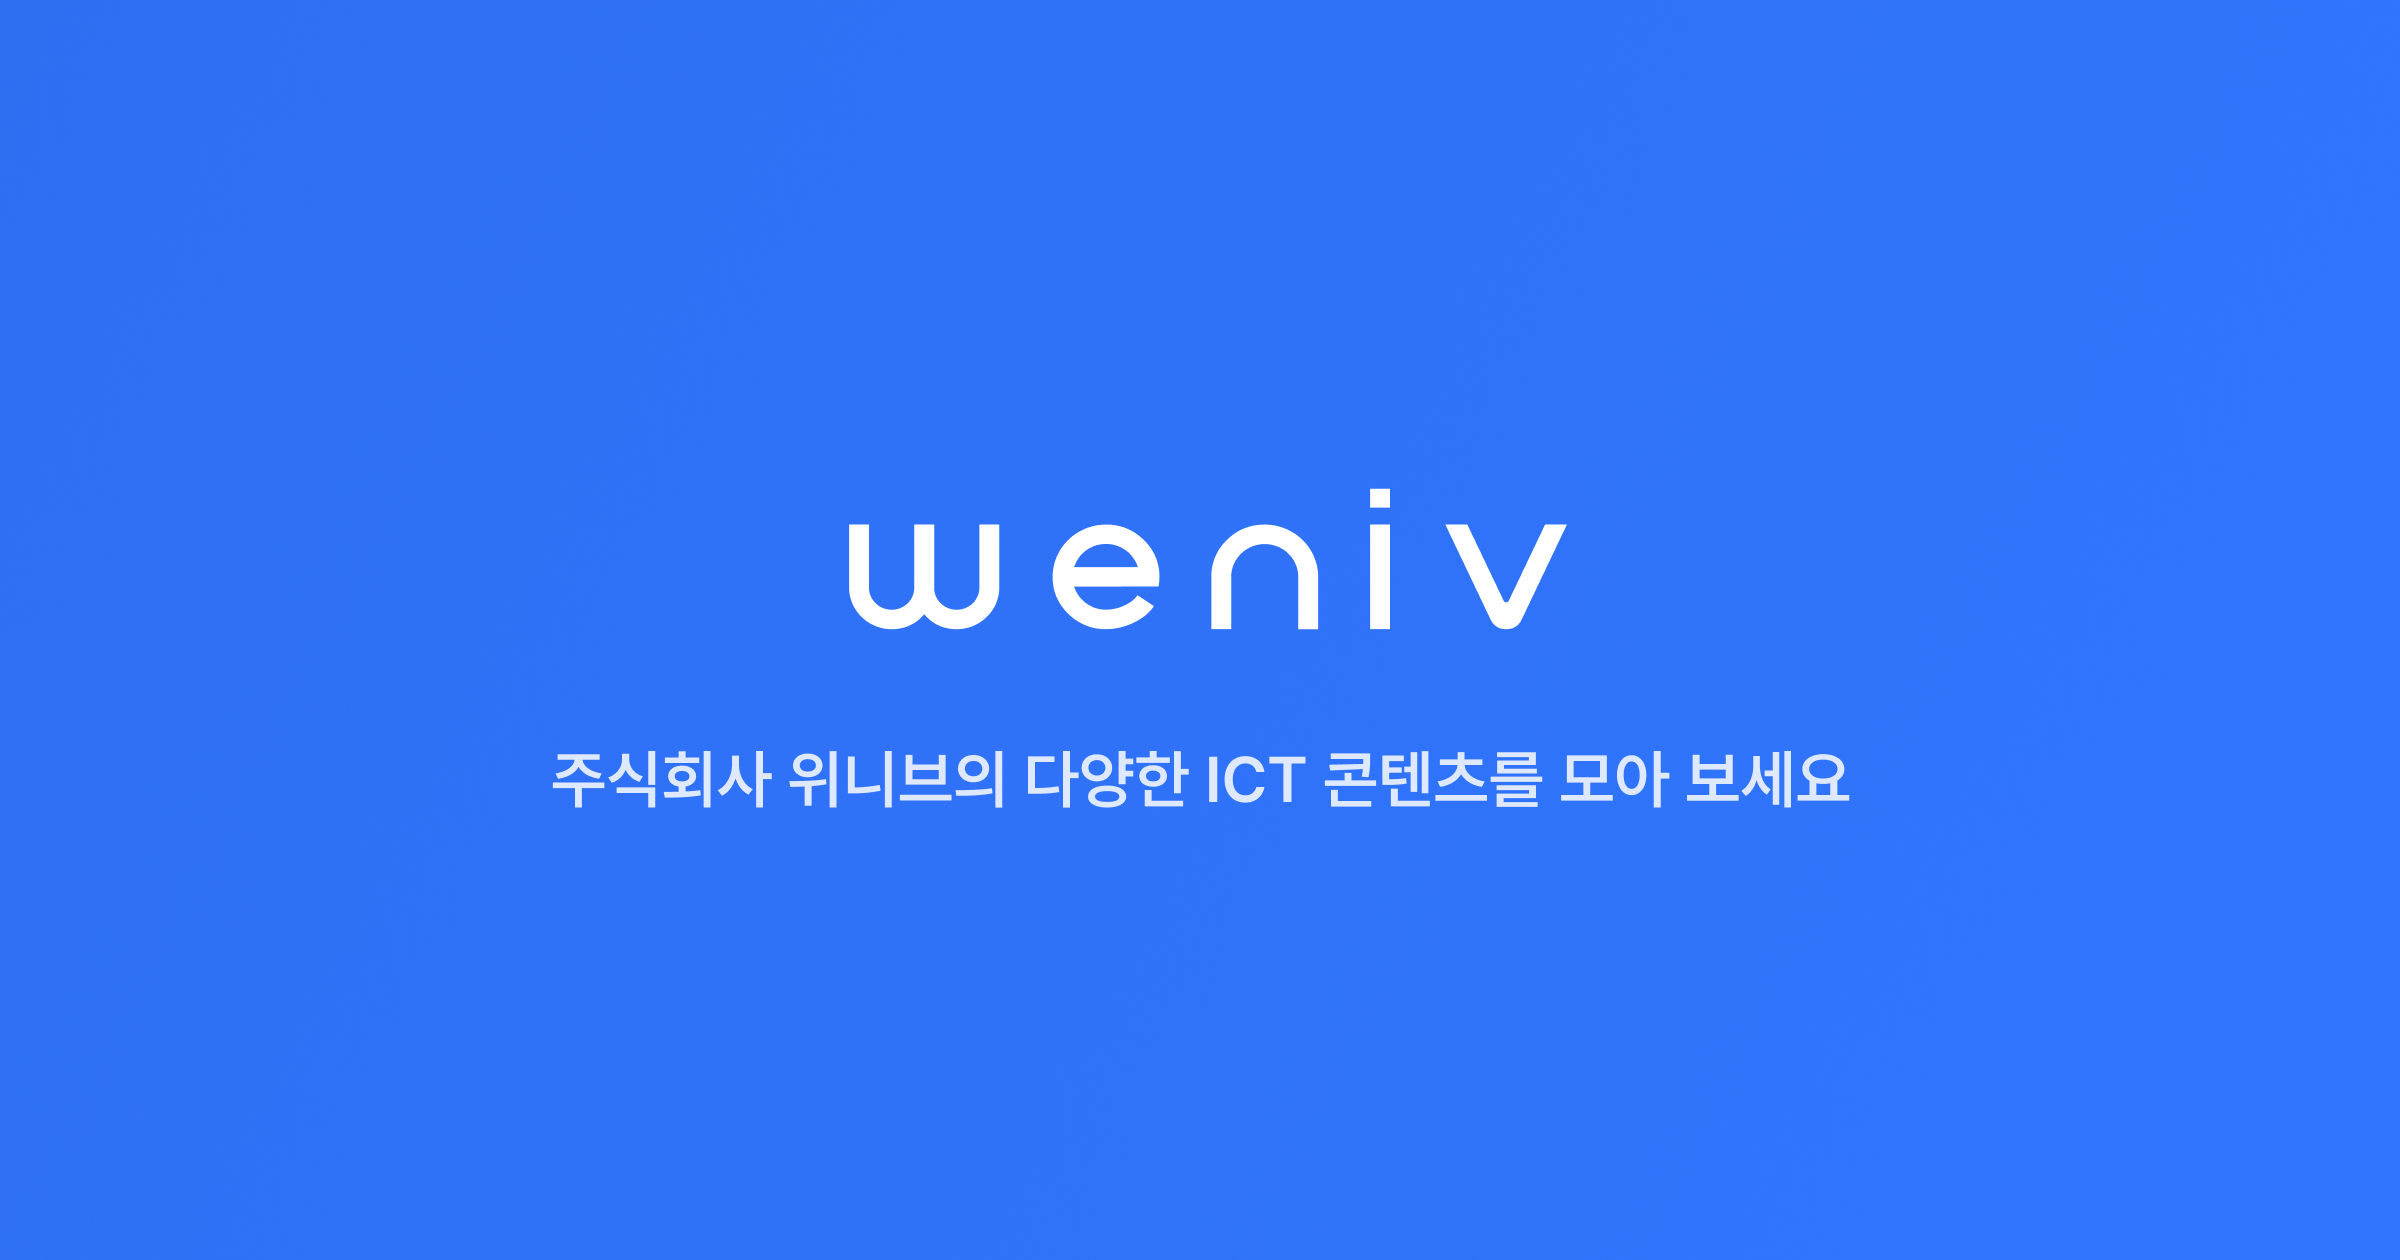
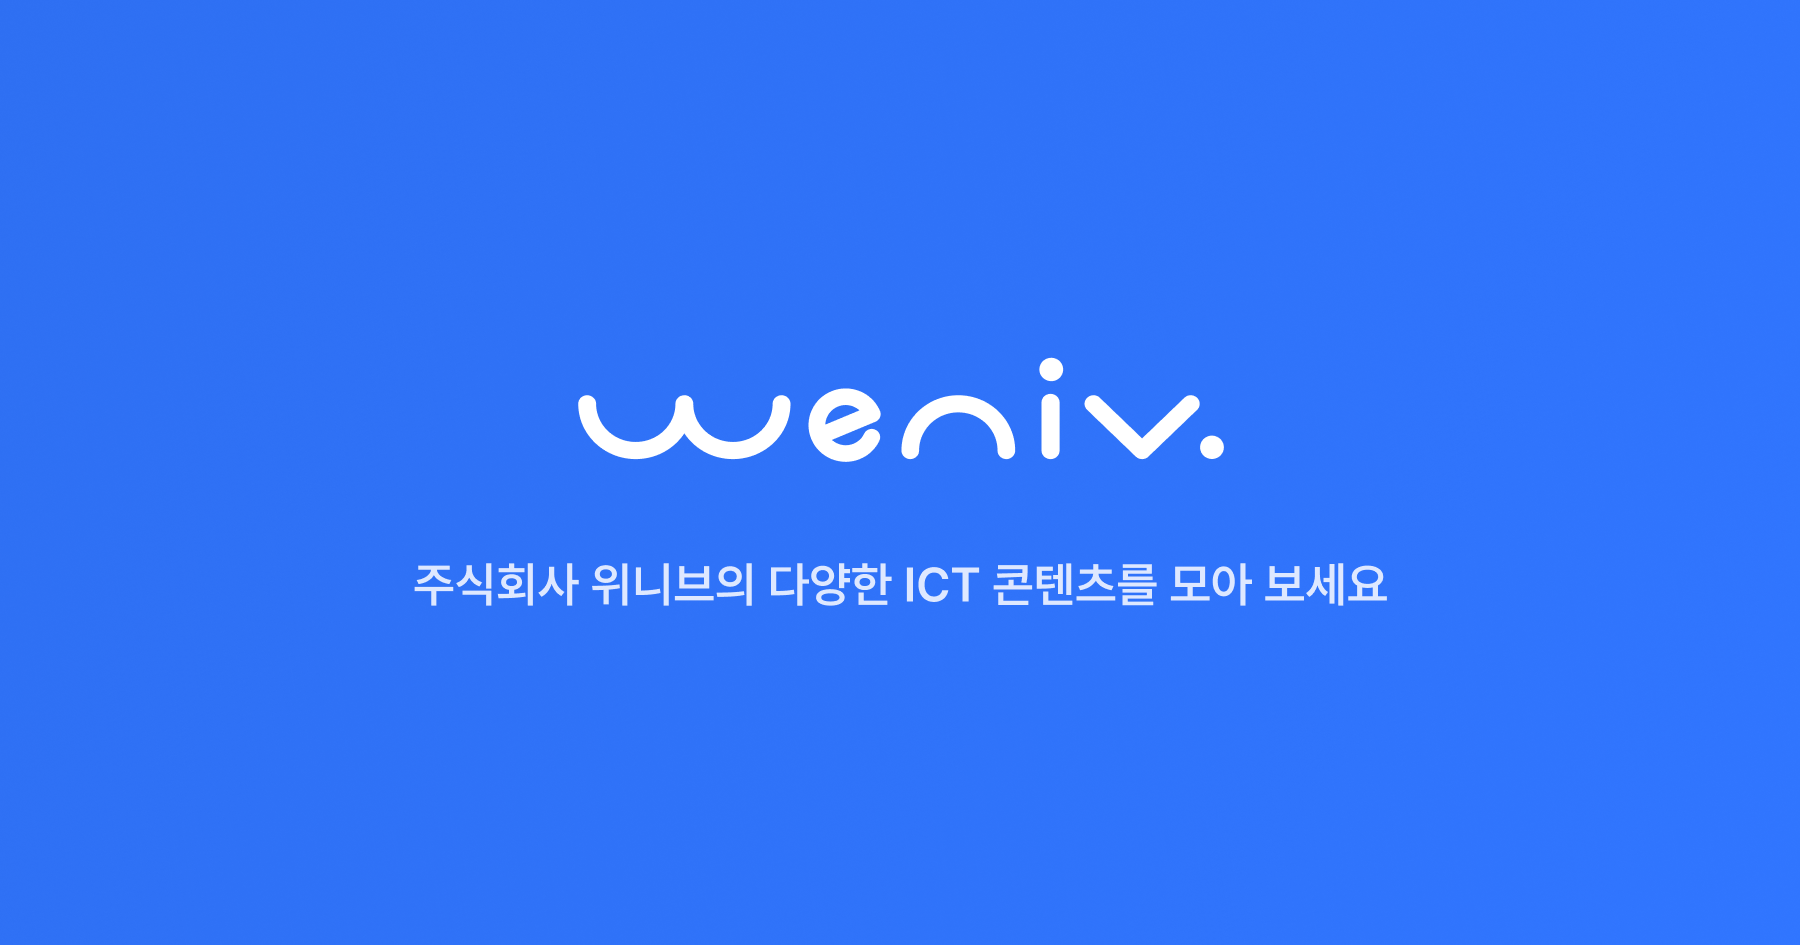
:bento: Add: 변경된 로고 이미지로 수정

Changed region(s): [[0.3111, 0.3683, 0.6844, 0.5217]]

diff --git a/index.html b/index.html
@@ -9,28 +9,48 @@
     <meta property="og:type" content="website" />
     <meta property="og:title" content="위니브 아카이브" />
     <meta property="og:site_name" content="위니브 아카이브" />
-    <meta property="og:description" content="위니브의 다양한 ICT 콘텐츠를 모아보세요!" />
+    <meta
+      property="og:description"
+      content="위니브의 다양한 ICT 콘텐츠를 모아보세요!"
+    />
     <meta property="og:url" content="https://archive.weniv.co.kr/" />
-    <meta property="og:image" content="https://archive.weniv.co.kr/src/assets/OG.png" />
+    <meta
+      property="og:image"
+      content="https://archive.weniv.co.kr/src/assets/OG.png"
+    />
 
     <!-- twitter -->
     <meta name="twitter:card" content="summary" />
     <meta name="twitter:title" content="위니브 아카이브" />
-    <meta name="twitter:description" content="위니브의 다양한 ICT 콘텐츠를 모아보세요!" />
-    <meta name="twitter:image" content="https://archive.weniv.co.kr/src/assets/OG.png" />
+    <meta
+      name="twitter:description"
+      content="위니브의 다양한 ICT 콘텐츠를 모아보세요!"
+    />
+    <meta
+      name="twitter:image"
+      content="https://archive.weniv.co.kr/src/assets/OG.png"
+    />
     <meta name="twitter:url" content="https://archive.weniv.co.kr/" />
 
     <title>위니브 아카이브</title>
 
     <!-- favicon -->
-    <link rel="shortcut icon" href="./src/assets/fav.svg" type="image/x-icon" />
+    <link
+      rel="shortcut icon"
+      href="./src/assets/favicon.svg"
+      type="image/x-icon"
+    />
     <link rel="stylesheet" href="./src/style/common.css" />
     <link rel="stylesheet" href="./src/style/index.css" />
   </head>
   <body>
     <header class="header">
       <a href="">
-        <h1 class="title"><img src="./src/assets/weniv-logo.svg" alt="위니브 로고" /></h1
+        <h1 class="title">
+          <img
+            src="./src/assets/weniv-archive-logo.svg"
+            alt="위니브 로고"
+          /></h1
       ></a>
       <a href="https://paullab.co.kr/" class="official-link" target="_blank"
         ><img src="./src/assets/icon-Home.svg" alt="위니브 공식 페이지로 이동"
@@ -39,44 +59,101 @@
 
     <main class="main">
       <h2 class="ir">ICT 컨텐츠 모음</h2>
-      <p class="info-tit">주식회사 위니브의<br />다양한 ICT 콘텐츠를 모아 보세요</p>
+      <p class="info-tit">
+        주식회사 위니브의<br />다양한 ICT 콘텐츠를 모아 보세요
+      </p>
 
       <div class="search-cont">
-        <input type="text" class="search-inp" placeholder="어떤 콘텐츠를 찾고 계신가요?" />
+        <input
+          type="text"
+          class="search-inp"
+          placeholder="어떤 콘텐츠를 찾고 계신가요?"
+        />
         <div class="btn-cont">
           <button class="reset-btn">
             <img src="./src/assets/icon-X.svg" alt="검색어 초기화" />
           </button>
-          <button type="button" class="search-btn"><img src="./src/assets/icon-Search.svg" alt="검색" /></button>
+          <button type="button" class="search-btn">
+            <img src="./src/assets/icon-Search.svg" alt="검색" />
+          </button>
         </div>
       </div>
 
       <nav class="category-nav">
-        <input name="category" type="radio" class="ir" id="all" value="전체" checked />
+        <input
+          name="category"
+          type="radio"
+          class="ir"
+          id="all"
+          value="전체"
+          checked
+        />
         <label class="category-btn" for="all">전체</label>
 
-        <input name="category" type="radio" class="ir" id="service" value="서비스" />
+        <input
+          name="category"
+          type="radio"
+          class="ir"
+          id="service"
+          value="서비스"
+        />
         <label class="category-btn" for="service">서비스</label>
 
-        <input name="category" type="radio" class="ir" id="opensource" value="오픈소스 프로젝트" />
+        <input
+          name="category"
+          type="radio"
+          class="ir"
+          id="opensource"
+          value="오픈소스 프로젝트"
+        />
         <label class="category-btn" for="opensource">오픈소스 프로젝트</label>
 
-        <input name="category" type="radio" class="ir" id="lecture" value="온라인 강의 플랫폼" />
+        <input
+          name="category"
+          type="radio"
+          class="ir"
+          id="lecture"
+          value="온라인 강의 플랫폼"
+        />
         <label class="category-btn" for="lecture">온라인 강의 플랫폼</label>
 
-        <input name="category" type="radio" class="ir" id="camp" value="온/오프라인 캠프" />
+        <input
+          name="category"
+          type="radio"
+          class="ir"
+          id="camp"
+          value="온/오프라인 캠프"
+        />
         <label class="category-btn" for="camp">온/오프라인 캠프</label>
 
         <input name="category" type="radio" class="ir" id="kdt" value="KDT" />
         <label class="category-btn" for="kdt">KDT</label>
 
-        <input name="category" type="radio" class="ir" id="support" value="청년 지원 프로그램" />
+        <input
+          name="category"
+          type="radio"
+          class="ir"
+          id="support"
+          value="청년 지원 프로그램"
+        />
         <label class="category-btn" for="support">청년 지원 프로그램</label>
 
-        <input name="category" type="radio" class="ir" id="ebook" value="전자책" />
+        <input
+          name="category"
+          type="radio"
+          class="ir"
+          id="ebook"
+          value="전자책"
+        />
         <label class="category-btn" for="ebook">전자책</label>
 
-        <input name="category" type="radio" class="ir" id="emoticon" value="이모티콘" />
+        <input
+          name="category"
+          type="radio"
+          class="ir"
+          id="emoticon"
+          value="이모티콘"
+        />
         <label class="category-btn" for="emoticon">이모티콘</label>
 
         <input name="category" type="radio" class="ir" id="etc" value="기타" />
